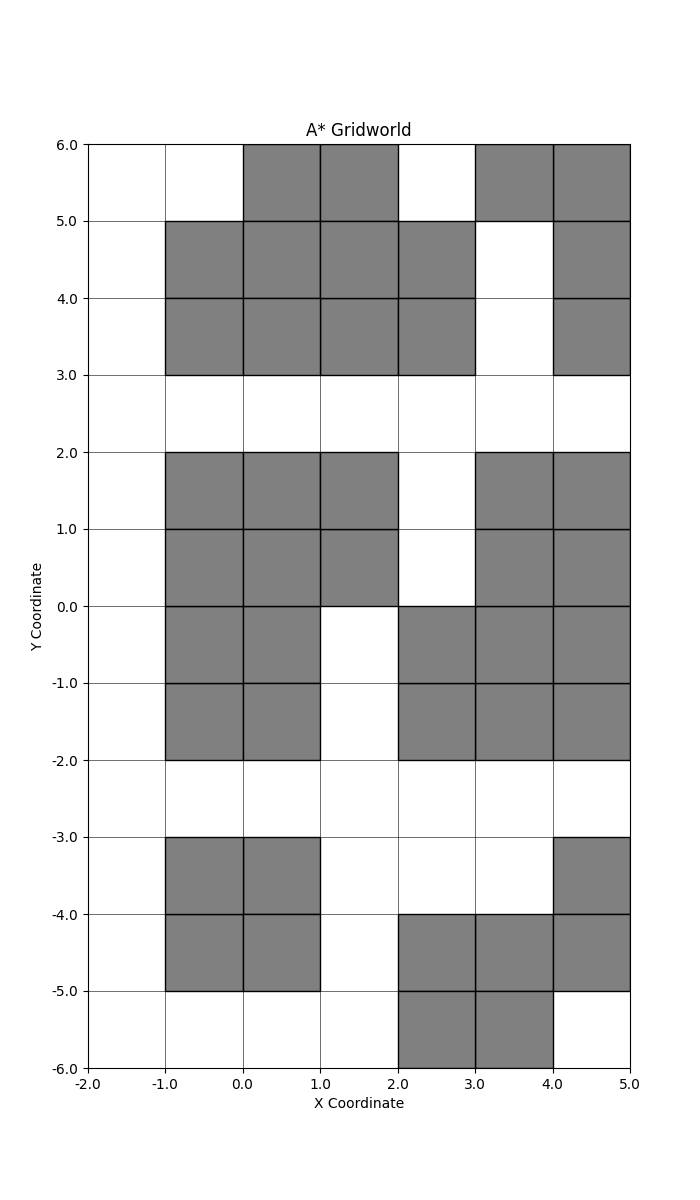
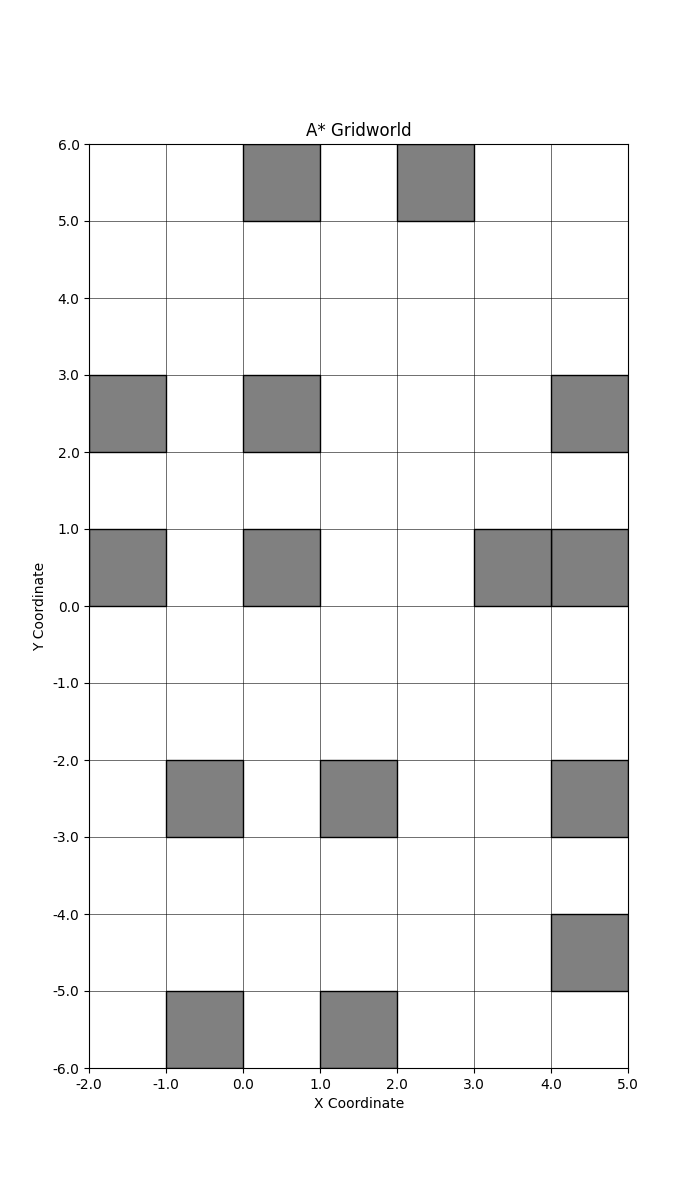
Fixed landmark inflation and placement

diff --git a/questions.py b/questions.py
@@ -74,6 +74,7 @@ def plot_grid(bounds, res, obstacles, title=None):
     ax.grid(color='black', linewidth=0.4)
     ax.set_xlabel('X Coordinate')
     ax.set_ylabel('Y Coordinate')
+    ax.set_aspect('equal')
 
     if title is None:
         ax.set_title('A* Gridworld')
@@ -84,7 +85,10 @@ def plot_grid(bounds, res, obstacles, title=None):
 
     return fig, ax
 
-def get_obstacles(bounds, res, inflate=1.0):
+def get_obstacles(bounds, res, inflate=0):
+    """
+    Inflate is the number of cells to inflate in each direction
+    """
     # Read ground truth landmark data
     landmarks_truth_data_path = os.path.join(DATA_PATH, 'ds1_Landmark_Groundtruth.dat')
     landmarks_truth = pd.read_csv(landmarks_truth_data_path, sep=r"\s+", comment="#", header=None, names=["subject", "x", "y", "x_sig", "y_sig"])
@@ -92,31 +96,18 @@ def get_obstacles(bounds, res, inflate=1.0):
      
     # Plot landmarks
     landmarks_rounded = set()  # Set of landmarks
-    for i, l in enumerate(landmarks):
-        l_round = round_to_res(l, res)
+    # Inflate landmark by inflate number of cells
+    for l in landmarks:
+        # Cover full square of size (inflate)
+        for dx in range(-inflate, inflate + 1):
+            for dy in range(-inflate, inflate + 1):
+                x, y = (l[0] + dx * res), (l[1] + dy * res)
 
-        l_center = l_round + res/2
-        r = (np.sqrt(inflate)/2)*res - 1e-8
-        inf_l_bounds = round_to_res(np.array([
-            l_center - r,
-            l_center + r 
-        ]), res)
+                l_inf = round_to_res(np.array([x,y]), res)
 
-        # Add center landmark
-        landmarks_rounded.add(tuple(l_round))
-
-        # Check all potential cells covered by inflated size (+1 for endpoint)
-        num_x = round((inf_l_bounds[1][0] - inf_l_bounds[0][0])/res) + 1
-        num_y = round((inf_l_bounds[1][1] - inf_l_bounds[0][1])/res) + 1
-        for xi in np.linspace(inf_l_bounds[0][0], inf_l_bounds[1][0], endpoint=True, num=num_x):
-            for yi in np.linspace(inf_l_bounds[0][1], inf_l_bounds[1][1], endpoint=True, num=num_y):
-                new_l_node = (xi, yi)
-                # Check x bounds, y bounds, and duplicate
-                if xi >= bounds[0][0] and xi < bounds[0][1] and \
-                yi >= bounds[1][0] and yi < bounds[1][1] and \
-                new_l_node not in landmarks_rounded:
-                
-                    landmarks_rounded.add(tuple(round_to_res(np.array(new_l_node), res)))
+                # Check bounds
+                if bounds[0][0] <= l_inf[0] < bounds[0][1] and bounds[1][0] <= l_inf[1] < bounds[1][1]:
+                    landmarks_rounded.add(tuple(l_inf))
 
     return landmarks_rounded
 
@@ -200,18 +191,18 @@ def q5():
     res = 1.0
     obstacles = get_obstacles(bounds, res)
 
-    start = np.array([0.5, -1.5])
-    goal = np.array([0.5, 1.5])
+    start = round_to_res(np.array([0.5, -1.5]), res)
+    goal = round_to_res(np.array([0.5, 1.5]), res)
     path = a_star_online(start, goal, bounds, res, obstacles)
     plot_search(start, goal, path, bounds, res, obstacles, 'Basic A* Search', 'q5a.png')
 
-    start = np.array([4.5, 3.5])
-    goal = np.array([4.5, -1.5])
+    start = round_to_res(np.array([4.5, 3.5]), res)
+    goal = round_to_res(np.array([4.5, -1.5]), res)
     path = a_star_online(start, goal, bounds, res, obstacles)
     plot_search(start, goal, path, bounds, res, obstacles, 'Basic A* Search', 'q5b.png')
 
-    start = np.array([-0.5, 5.5])
-    goal = np.array([1.5, -3.5])
+    start = round_to_res(np.array([-0.5, 5.5]), res)
+    goal = round_to_res(np.array([1.5, -3.5]), res)
     path = a_star_online(start, goal, bounds, res, obstacles)
     plot_search(start, goal, path, bounds, res, obstacles, 'Basic A* Search', 'q5c.png')
 
@@ -226,7 +217,7 @@ def q6():
     res = 0.1
 
     # 0.3, more in each dir = 0.7m side length = 49 times area increase
-    obstacles = get_obstacles(bounds, res, inflate=49)
+    obstacles = get_obstacles(bounds, res, inflate=3)
 
     start = np.array([-2, -6])
     goal = np.array([4, 5])

diff --git a/search.py b/search.py
@@ -13,9 +13,12 @@ def round_to_res(n, res):
     """
     Given a number or np.ndarray of numbers, round to a given resolution.
     """
-    idx = np.round(n / res).astype(int)
-    # Convert back to actual value
-    return idx * res
+    # idx = np.round(n / res).astype(int)
+    # # Convert back to actual value
+    # return idx * res
+    if isinstance(n, tuple): n_arr = np.array(n)
+    else: n_arr = n
+    return np.round(np.floor(n_arr / res)*res, 1)   # TODO: Better way of eliminating floating point
 
 class Node():
     """
@@ -168,6 +171,7 @@ def a_star_online(start, goal, bounds, res, obstacles):
         obstacles: np.ndarray of obstacle locations, rounded to Gridworld resolution
     """
     # Initialization
+    start, goal = round_to_res(start, res), round_to_res(goal, res)
     path = [tuple(start)]
     known_obstacles = set() # Start without known obstacles
 

diff --git a/run.py b/run.py
@@ -11,11 +11,11 @@ from questions import q1, q2, q3, q4, q5, q6
 def main():
     print("*** STARTING ***\n")
 
-    q1()
-    q2()
-    q3()
-    q4()
-    q5()
+    # q1()
+    # q2()
+    # q3()
+    # q4()
+    # q5()
     q6()
     
     print("\n*** DONE ***")
